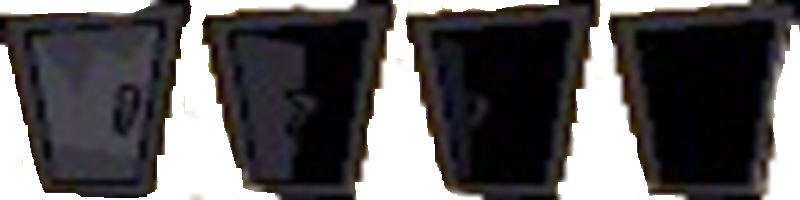
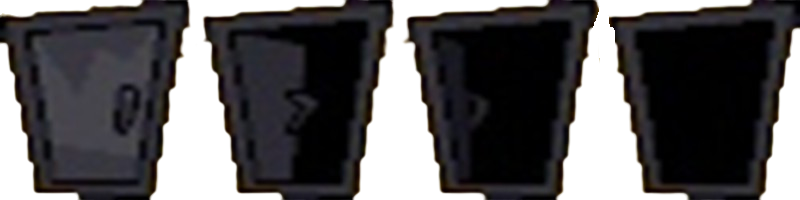
door을 4번 공격하면 열리는 걸로 수정

diff --git a/play_mode.py b/play_mode.py
@@ -25,19 +25,24 @@ def resume():
     pass
 
 def handle_events():
+    global boy
     event_list = get_events()
     for event in event_list:
-        if event.type == SDL_QUIT:
+        if event.type == SDL_QUIT or (event.type == SDL_KEYDOWN and event.key == SDLK_ESCAPE):
             game_framework.quit()
-        elif event.type == SDL_KEYDOWN and event.key == SDLK_ESCAPE:
-            game_framework.change_mode(title_mode)
-        elif event.type == SDL_MOUSEBUTTONDOWN and event.button == SDL_BUTTON_LEFT:
+        if event.type == SDL_MOUSEBUTTONDOWN and event.button == SDL_BUTTON_LEFT:
             x = event.x
             y = get_canvas_height() - 1 - event.y
             print(f"좌표: ({x}, {y})")
-        else:
-            boy.handle_event(event)
 
+        boy.handle_event(event)
+
+        if event.type == SDL_KEYDOWN and event.key == SDLK_SPACE:
+            attack_bb = boy.get_attack_bb()   # 이 시점에서 이미 방향/공격 상태 반영됨
+
+            for d in doors:
+                if not d.is_open and collide(attack_bb, d.get_bb()):
+                    d.hit()
 
 def init():
     background = Background()
@@ -63,10 +68,10 @@ def init():
     global doors
     doors = []
     DOOR_POSITIONS = [
-        (130, 220),  # 왼쪽 아래 집
-        (190, 450),  # 왼쪽 위 2층 집
-        (220, 640),  # 왼쪽 위 3층 집
-        (700, 320),  # 가운데 중간 집
+        (130, 240),  # 왼쪽 아래 집
+        (488, 180),  # 왼쪽 우측 아래 집
+        (135, 645),  # 왼쪽 위 3층 집
+        (700, 330),  # 가운데 중간 집
         (980, 560),  # 오른쪽 위 큰 집들 중 하나
         (880, 840), # 오른쪽 위 젤 큰 집
     ]
@@ -98,6 +103,11 @@ def update():
     CAUTION_DISTANCE = 300
     boy.caution_icon = (distance <= CAUTION_DISTANCE)
 
+    # 공격이 끝났다면 문들의 hit 상태 초기화
+    if not boy.is_attacking:
+        for d in doors:
+            d.already_hit = False
+
     elapsed_time = time.time() - start_time
 
     # 2분 경과 시 게임 오버
@@ -115,9 +125,12 @@ def handle_attack_collision():
             game_world.remove_object(e)
             enemies.remove(e)
 
-    for d in doors:
-        if not d.is_open and collide(attack_bb, d.get_bb()):
-            d.start_open()
+    # for d in doors:
+    #     if not d.is_open and collide(attack_bb, d.get_bb()):
+    #         if not d.already_hit:
+    #             # d.start_open()
+    #             print("Hit door at:", d.x, d.y)  # 디버그
+    #             d.hit()
 
 def draw_timer():
     global elapsed_time, font

diff --git a/door.py b/door.py
@@ -11,7 +11,7 @@ class Door:
 
         self.x = x
         self.y = y
-        self.scale = 0.25
+        self.scale = 0.28
 
         # door.png - 가로 4프레임
         self.total_frames = 4
@@ -25,6 +25,7 @@ class Door:
 
         self.is_opening = False  # 열리는 중인지
         self.is_open = False     # 완전히 열린 상태인지
+        self.already_hit = False
 
     # 플레이어 공격이 맞았을 때 호출
     def start_open(self):
@@ -35,18 +36,29 @@ class Door:
         self.frame_hold = 0
 
     def update(self):
-        # 열리는 중일 때만 애니메이션 진행
-        if self.is_opening and not self.is_open:
-            self.frame_hold += 1
-            if self.frame_hold >= self.frame_delay:
-                self.frame_hold = 0
-                self.frame += 1
+        # # 열리는 중일 때만 애니메이션 진행
+        # if self.is_opening and not self.is_open:
+        #     self.frame_hold += 1
+        #     if self.frame_hold >= self.frame_delay:
+        #         self.frame_hold = 0
+        #         self.frame += 1
+        #         # 마지막 프레임까지 재생하면 열린 상태로 고정
+        #         if self.frame >= self.total_frames:
+        #             self.frame = self.total_frames - 1
+        #             self.is_open = True
+        #             self.is_opening = False
+        pass
 
-                # 마지막 프레임까지 재생하면 열린 상태로 고정
-                if self.frame >= self.total_frames:
-                    self.frame = self.total_frames - 1
-                    self.is_open = True
-                    self.is_opening = False
+    def hit(self):
+        if self.is_open:
+            return
+
+        self.frame += 1
+        print("Door hit. frame =", self.frame)
+
+        if self.frame >= self.total_frames:
+            self.frame = self.total_frames - 1
+            self.is_open = True
 
     def draw(self):
         # 현재 프레임 한 칸만 잘라서 그리기
